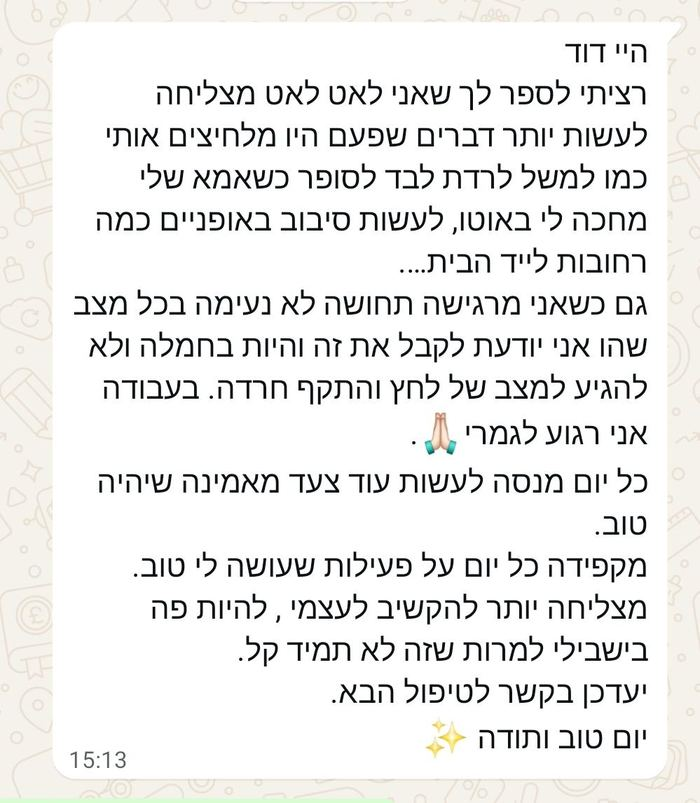
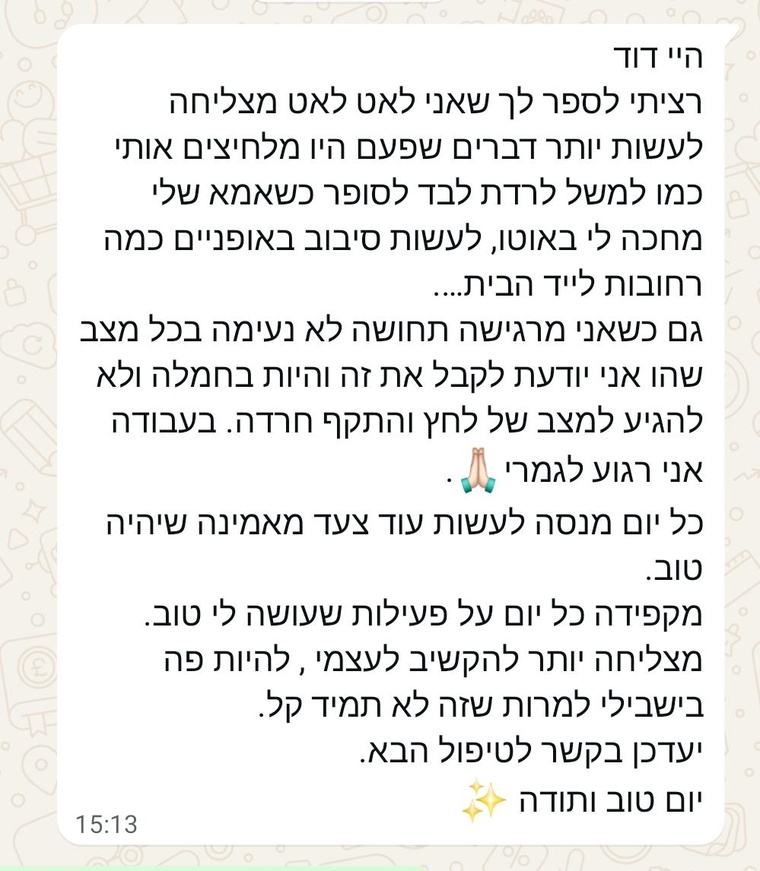
Fix image quality and recolor blue designs to the page's palette
The device mockup, testimonial screenshots and lesson icons were
over-compressed on the previous pass, producing visible artifacts on
text and fine linework. Re-export everything at higher quality
(JPEG 92-95 / lossless PNG) and closer to source resolution.

Also recolor the anxiety-cycle diagram and the 5 lesson icons from
their original blue palette to the page's dark-green/gold identity,
via HSV hue remapping (dark strokes -> ink green, light circle
backgrounds and mid-tone accents -> gold), while leaving the photo
elements (skin, hair, the red "sensation" pulse) untouched. The
device mockup and WhatsApp screenshots are left uncolored since
they're photographic content, not flat design elements.

Claude-Session: https://claude.ai/code/session_01WiDMkSBkK4jdVKKtxpuhzg

diff --git a/hadracha/index.html b/hadracha/index.html
@@ -224,7 +224,7 @@ body.a11y-reduce *{animation:none!important;transition:none!important;scroll-beh
 
   <section class="reveal" style="animation-delay:0ms">
     <div class="mock-wrap">
-      <img src="img/mockup.jpg" alt="ההדרכה 'מה לעשות כשהחרדה עולה' על מסך מחשב וטלפון, עם תרגול מונחה קצר שלוקח 5 דקות" loading="lazy" width="1400" height="933">
+      <img src="img/mockup.jpg" alt="ההדרכה 'מה לעשות כשהחרדה עולה' על מסך מחשב וטלפון, עם תרגול מונחה קצר שלוקח 5 דקות" loading="lazy" width="1500" height="1000">
     </div>
     <p class="mock-caption">עזרה ראשונה לרגע שבו החרדה עולה — לא עוד קורס ארוך.</p>
   </section>
@@ -248,7 +248,7 @@ body.a11y-reduce *{animation:none!important;transition:none!important;scroll-beh
       </ul>
       <p class="center muted" style="max-width:60ch;margin:0 auto">ולפעמים דווקא שם מתחיל הסיבוב שמגדיל את כל האירוע.</p>
       <div class="cycle-wrap">
-        <img src="img/cycle.jpg" alt="מעגל החרדה: תחושה בגוף, מחשבה, בדיקה, ניסיון להירגע, ועוד תשומת לב לחרדה — וחוזר חלילה" loading="lazy" width="1200" height="800">
+        <img src="img/cycle.jpg" alt="מעגל החרדה: תחושה בגוף, מחשבה, בדיקה, ניסיון להירגע, ועוד תשומת לב לחרדה — וחוזר חלילה" loading="lazy" width="1400" height="933">
       </div>
       <div class="highlight">ההדרכה הזאת נועדה בדיוק לרגע הזה. לא כדי להבטיח שהחרדה תיעלם בתוך שתי דקות — אלא כדי לעזור לך לדעת איך סוף סוף לפגוש אותה אחרת כשהיא מגיעה.</div>
     </div>
@@ -357,8 +357,8 @@ body.a11y-reduce *{animation:none!important;transition:none!important;scroll-beh
     </div>
     <div class="spacer-m"></div>
     <div class="quotes-grid">
-      <img class="quote-shot reveal" style="animation-delay:120ms" src="img/testimonial-1.jpg" alt="הודעת וואטסאפ מלקוחה: הטיפול העניק לי חופש ועצמאות, פחד הנהיגה שהיה לי במשך שנים נעלם לאט לאט והיום אני נוהגת באופן יומיומי" loading="lazy" width="700" height="1142">
-      <img class="quote-shot reveal" style="animation-delay:180ms" src="img/testimonial-2.jpg" alt="הודעת וואטסאפ מלקוחה: לאט לאט מצליחה לעשות יותר דברים שפעם היו מלחיצים אותי, ויודעת לקבל תחושה לא נעימה בחמלה בלי להגיע להתקף חרדה" loading="lazy" width="700" height="803">
+      <img class="quote-shot reveal" style="animation-delay:120ms" src="img/testimonial-1.jpg" alt="הודעת וואטסאפ מלקוחה: הטיפול העניק לי חופש ועצמאות, פחד הנהיגה שהיה לי במשך שנים נעלם לאט לאט והיום אני נוהגת באופן יומיומי" loading="lazy" width="760" height="1240">
+      <img class="quote-shot reveal" style="animation-delay:180ms" src="img/testimonial-2.jpg" alt="הודעת וואטסאפ מלקוחה: לאט לאט מצליחה לעשות יותר דברים שפעם היו מלחיצים אותי, ויודעת לקבל תחושה לא נעימה בחמלה בלי להגיע להתקף חרדה" loading="lazy" width="760" height="871">
     </div>
     <div class="highlight" style="margin-top:26px">המטרה היא לא להפוך לאדם שלעולם לא מרגיש חרדה. המטרה היא שהחרדה תפסיק להיות זו שקובעת לך מה אתה מסוגל לעשות.</div>
     <div class="cta-wrap">
@@ -370,7 +370,7 @@ body.a11y-reduce *{animation:none!important;transition:none!important;scroll-beh
 
   <section class="section-alt" style="margin:0 -20px">
     <div style="max-width:60ch;margin:0 auto;padding:0 20px" class="about">
-      <div class="about-photo"><img src="img/david.jpg" alt="דוד אינגבר" loading="lazy" width="132" height="132"></div>
+      <div class="about-photo"><img src="img/david.jpg" alt="דוד אינגבר" loading="lazy" width="560" height="560"></div>
       <h2 class="center">מי אני ולמה בניתי את התהליך הזה?</h2>
       <p>אם עוד לא יצא לנו להכיר, נעים מאוד. אני <span class="lead-name">דוד אינגבר</span>, מטפל רגשי כבר 6 שנים, עם מעל 1,300 שעות ליווי אחד על אחד בעבודה עם חרדה, טראומה, מחשבות טורדניות, חרדת בריאות והימנעויות.</p>
       <p>אבל הגישה שלי לא נולדה רק מהקליניקה. היא התחילה גם ממני. לפני 6 שנים התחלתי לפחד מהתחושות שלי, מהמחשבות שלי, ובעיקר מהאפשרות שלא אצליח להתמודד כשהחרדה תעלה. רציתי לדעת איך לעזור לעצמי, אז הלכתי ללמוד LI-CBT. זה נתן לי כלים והבנה. אבל בשלב מסוים קלטתי משהו: הפכתי ללוחם טוב יותר, אבל עדיין חייתי בתוך מלחמה.</p>
